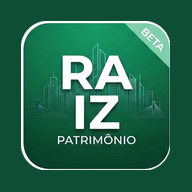
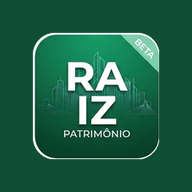
patrimonio v1.202.0 — 3 arquivo(s)
index.html (v1.202.0)
icon-maskable-192.png
icon-maskable-512.png

Changed region(s): [[0.0938, 0.0938, 0.9062, 0.9062], [0.25, 0.5312, 0.2812, 0.5625]]

diff --git a/index.html b/index.html
@@ -6,9 +6,37 @@
    (base derivada do RUMO v7.4.2 — histórico de versões anteriores
    preservado abaixo para referência técnica)
 
-   VERSÃO: Beta v1.201.0
-   LINHAS: 14732
+   VERSÃO: Beta v1.202.0
+   LINHAS: 14746
    DATA: 18/09/2026
+   NOVIDADES (Beta v1.202.0) — 3 ajustes explícitos do Nicola na tela de
+   abertura (splash/login), proposta+protótipo aprovados em sessão
+   separada de UX antes desta entrega: (1) ícone do app (icon-maskable-
+   192/512.png) — corrigido o "halo branco" visto no launcher do
+   celular (print real, Samsung One UI): o selo (badge arredondado com
+   borda branca própria) ocupava ~78% do canvas, quase colando na borda
+   — qualquer máscara do launcher (círculo, squircle) cortava rente à
+   borda branca do selo, sobrando um risco/anel branco visível. Selo
+   reduzido pra 66,7% (mesma proporção 72dp/108dp da zona seguro de
+   ícone adaptativo Android), recentralizado sobre o mesmo verde de
+   fundo — pixel do selo em si INALTERADO, só escala e posição; icon-
+   192.png/icon-512.png (purpose "any", não usados pelo launcher
+   adaptativo) ficaram como estavam. (2) botão do robô da tela de login
+   (#btn-falar-bot-splash) — trocado o mascote verde-escuro com anel
+   branco fino (v1.40.3) pela MESMA linguagem visual de IA já usada no
+   cabeçalho pós-login (.rz-hdr .rz-ia: círculo brass, ícone sparkles,
+   sombra em vez de contorno — REGRAS_EXPERIENCIA §15/16, brass é cor
+   EXCLUSIVA de IA/Robô) — deixa de parecer um elemento solto e passa a
+   se identificar como o mesmo convite de IA do resto do app; ganhou um
+   pulso brass sutil (chamar atenção sem ser irritante) e foi reposto-
+   sicionado (right:66px, longe do canto onde fica o botão oculto
+   "Sou sócio", right:16px, sem colidir quando os dois aparecem juntos).
+   Handler (abrirBotWhatsapp) e telemetria (eventos_landing, origem
+   app_splash) intocados — só visual e posição mudaram. CSS morta do
+   mascote antigo (.raiz-bot-eye/@keyframes raiz-bot-blink, só usada
+   ali) removida junto. (3) Imagem de fundo da tela de login MANTIDA
+   sem alteração — decisão explícita do Nicola de não trocar a foto
+   atual (Unsplash skyline) por nenhuma das opções propostas.
    NOVIDADES (Beta v1.201.0) — 2 ajustes do Nicola em cima da v1.200.0:
    (1) "Remover acesso ao sistema" (⋮ de Pessoas) travava só pro master —
    agora trava pra admin também (mesma proteção de "Excluir pessoa"), com
@@ -102,20 +130,8 @@
    ajustada; leitura/escrita de minuta (index.html) e o seletor/casamento em
    js/minutas.js (v1.1.0) passam a usar o catálogo novo. Detalhe: memória do
    projeto, área "Caminho B".
-   NOVIDADES (Beta v1.197.0) — Caminho B (migração imóveis→cofre_ativos),
-   fechamento: minutas_contrato ganhou coluna ativo_id (a coluna antiga
-   imovel_id tinha FK pra imoveis, mas o app já gravava ali o id do
-   ativo desde a Onda 12 — bug de FK latente, nunca tinha estourado
-   porque não existe hoje minuta ativa com escopo='imovel'); leitura e
-   escrita de minuta (sincronizarMinutaContratoSupabase / carga) agora
-   usam ativo_id. No banco: tabela imoveis renomeada pra
-   imoveis_legado_aguardando_exclusao (só 104 linhas congeladas, nada no
-   app escreve nela desde a Onda 12) + view de compatibilidade
-   `imoveis` criada pra não quebrar o bot (leitura direta, pendência à
-   parte) nem cofre-api.js::buscarResumoImovelOrigem. Detalhe completo
-   e migrations aplicadas: memória do projeto, área "Caminho B".
    ------------------------------------------------------------------
-   Versões anteriores (v1.196.0 … v1.196.0): CHANGELOG_APP.md, na raiz do
+   Versões anteriores (v1.197.0 … v1.197.0): CHANGELOG_APP.md, na raiz do
    repositório — o gerar_versoes.py rola pra lá automaticamente tudo além
    das 5 versões mais recentes deste cabeçalho.
 
@@ -391,26 +407,38 @@
            validação de verdade, o parágrafo volta a ocupar espaço normal. */
         .raiz-indicador-inline:empty { height: 0; margin-top: 0; }
 
-        /* Mascote R.AI.Z (v1.40.2) — piscada REESTILIZADA pra ficar bem
-           perceptível (v1.40.1 tinha squish de 150ms a cada 4.5s — pequeno
-           e rápido demais pra notar). Agora é uma "piscadela dupla" (efeito
-           mais expressivo, tipo cutucar-o-olho de mascote de verdade):
-           fecha, abre rapidinho, fecha de novo, abre e fica aberto o resto
-           do ciclo. Dura ~0.8s dentro de um ciclo de 5s — evento claro, não
-           irritante (~84% do tempo os olhos ficam parados, abertos).
-           transform-box: fill-box continua garantindo que o scaleY gira em
-           torno do próprio olho. */
-        @keyframes raiz-bot-blink {
-            0%, 100% { transform: scaleY(1); }
-            4%       { transform: scaleY(0.08); }
-            8%       { transform: scaleY(1); }
-            11%      { transform: scaleY(0.08); }
-            15%      { transform: scaleY(1); }
+        /* v1.202.0 — #btn-falar-bot-splash (botão de IA da tela de abertura)
+           migrado do mascote R.AI.Z próprio (verde-escuro, anel branco fino,
+           olhos piscando — v1.40.2/v1.40.3, CSS acima removida por não ter
+           mais uso) pra MESMA linguagem visual de IA já usada no cabeçalho
+           pós-login (.rz-hdr .rz-ia: círculo brass + sparkles + sombra —
+           REGRAS_EXPERIENCIA §15/16, brass é cor EXCLUSIVA de IA/Robô).
+           Regra própria (em vez de reaproveitar .rz-ia direto) porque aqui
+           o botão fica solto sobre a splash, position:absolute, sem o
+           .rz-hdr como pai — mesmos tokens, mesmo desenho. onclick continua
+           abrirBotWhatsapp() (não é o sheet do Raiz IA — pré-login não tem
+           sessão/empresa carregada; o convite aqui é o mesmo WhatsApp de
+           sempre). Pulso brass (::before) só decorativo, sem interferir no
+           toque (pointer-events não desativado pois fica atrás via z-index
+           de stacking do próprio botão, não some clique). */
+        #btn-falar-bot-splash{
+            position:absolute; top:14px; right:66px; z-index:10;
+            width:44px; height:44px; border-radius:50%;
+            background:var(--brass); color:#fff; border:0; padding:0; cursor:pointer;
+            display:flex; align-items:center; justify-content:center;
+            box-shadow:0 6px 18px rgba(21,42,36,.35), 0 2px 6px rgba(21,42,36,.2);
+            transition:transform .08s;
         }
-        .raiz-bot-eye {
-            transform-box: fill-box;
-            transform-origin: center;
-            animation: raiz-bot-blink 5s ease-in-out infinite;
+        #btn-falar-bot-splash:active{ transform:scale(.92); }
+        #btn-falar-bot-splash svg{ width:20px; height:20px; position:relative; z-index:1; }
+        #btn-falar-bot-splash::before{
+            content:''; position:absolute; inset:0; border-radius:50%;
+            background:var(--brass); z-index:0;
+            animation:rz-splash-ia-pulse 2.6s ease-out infinite;
+        }
+        @keyframes rz-splash-ia-pulse{
+            0%   { transform:scale(1); opacity:.5; }
+            100% { transform:scale(1.9); opacity:0; }
         }
 
 
@@ -1292,29 +1320,15 @@
 
         <button id="btn-solicitar-acesso-socio" onclick="solicitarAcessoSocio()" title="Sou sócio — solicitar acesso sem senha" class="hidden absolute top-4 right-4 w-10 h-10 flex items-center justify-center bg-white text-slate-700 rounded-full shadow-lg z-10"><svg data-lucide="user" style="width:18px;height:18px"></svg></button>
 
-        <!-- Mascote R.AI.Z (v1.40.3) — reposicionado e restilizado pra ficar
-             EXATAMENTE igual ao ícone que aparece no header do app pós-login
-             (mesmas classes: w-9 h-9, bg-emerald-800, text-white, mesmo SVG
-             21x21, mesmos olhos r=1.8). Posição: top-3 right-14 replica o
-             offset real do botão no header (header tem p-3 = 12px de
-             padding = top-3; o botão bot no header fica à esquerda do botão
-             de Conta, então seu canto direito soma padding(12px) +
-             botão-Conta(36px) + gap-2(8px) = 56px = right-14 no Tailwind).
-             Resultado: quando a splash sai e o header entra, o ícone não
-             "pula" de lugar nem muda de tamanho/cor — só o resto da tela ao
-             redor dele muda. Antes (v1.40.0-v1.40.2) ficava no canto
-             superior ESQUERDO, com fundo branco — não batia com o header. -->
-        <button id="btn-falar-bot-splash" onclick="abrirBotWhatsapp()" title="Falar com o R.AI.Z no WhatsApp" class="absolute top-3 right-14 w-9 h-9 flex items-center justify-center bg-emerald-800 text-white rounded-full shadow-lg z-10 active:scale-90 transition">
-            <svg viewBox="0 0 24 24" width="21" height="21" fill="none" stroke="currentColor" stroke-width="2" stroke-linecap="round" stroke-linejoin="round" aria-hidden="true">
-                <path d="M12 2v3"/>
-                <circle cx="12" cy="2" r="1" fill="currentColor" stroke="none"/>
-                <rect x="4" y="7" width="16" height="12" rx="4"/>
-                <circle class="raiz-bot-eye" cx="9" cy="13" r="1.8" fill="currentColor" stroke="none"/>
-                <circle class="raiz-bot-eye" cx="15" cy="13" r="1.8" fill="currentColor" stroke="none"/>
-                <path d="M9 16.5c.8.6 1.9.9 3 .9s2.2-.3 3-.9" stroke-width="1.6"/>
-                <path d="M2 11v3"/>
-                <path d="M22 11v3"/>
-            </svg>
+        <!-- Botão de IA da splash (v1.202.0) — migrado do mascote R.AI.Z
+             próprio (v1.40.3, print real do Nicola mostrava anel branco
+             malposicionado, fora do padrão visual do app) pro MESMO círculo
+             brass + sparkles do .rz-hdr .rz-ia pós-login (REGRAS §15/16) —
+             ver CSS de #btn-falar-bot-splash acima ("v1.202.0") pra
+             posição/animação. Handler e telemetria (abrirBotWhatsapp,
+             eventos_landing) intocados — só visual e posição mudaram. -->
+        <button id="btn-falar-bot-splash" onclick="abrirBotWhatsapp()" title="Falar com o R.AI.Z no WhatsApp" aria-label="Falar com o R.AI.Z no WhatsApp">
+            <svg data-lucide="sparkles" style="width:20px;height:20px" aria-hidden="true"></svg>
         </button>
 
         <div class="w-full max-w-sm text-center space-y-5 py-8">
@@ -3486,7 +3500,7 @@
         // texto certo toda vez (esqueci 5 versões seguidas, de v1.37.1 até
         // v1.38.3). Agora só precisa mudar UMA linha aqui a cada release;
         // window.onload aplica nos dois lugares automaticamente.
-        const APP_VERSAO = "Beta v1.201.0"; // mantido sincronizado com o cabeçalho — ver nota v1.178.8 acima sobre por que isso importa
+        const APP_VERSAO = "Beta v1.202.0"; // mantido sincronizado com o cabeçalho — ver nota v1.178.8 acima sobre por que isso importa
 
         // ====================================================================
         // v1.105.0 — HELPERS DE SUPERFÍCIE DA GRAMÁTICA ÚNICA
